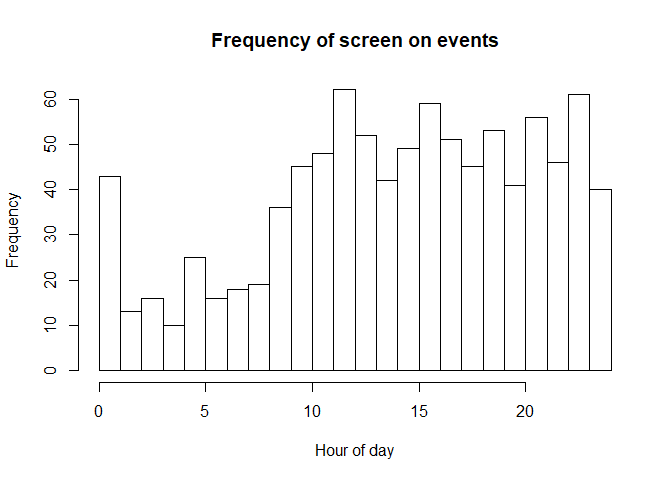
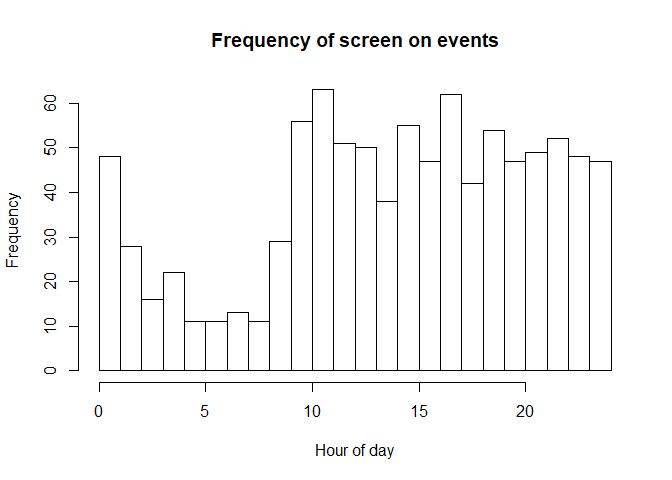
Population average sleep duration prior given weight each day

diff --git a/README.md b/README.md
@@ -139,36 +139,36 @@ head(outmat_orig)
 ```
 
     ##                    t0                  t1
-    ## 1 03/02/2019 15:00:00 03/02/2019 15:03:47
-    ## 2 03/02/2019 15:03:47 03/02/2019 15:04:48
-    ## 3 03/02/2019 15:04:48 03/02/2019 15:10:58
-    ## 4 03/02/2019 15:10:58 03/02/2019 15:26:40
-    ## 5 03/02/2019 15:26:40 03/02/2019 15:27:35
-    ## 6 03/02/2019 15:27:35 03/02/2019 15:29:45
+    ## 1 03/02/2019 15:00:00 03/02/2019 15:19:11
+    ## 2 03/02/2019 15:19:11 03/02/2019 15:38:34
+    ## 3 03/02/2019 15:38:34 03/02/2019 15:42:20
+    ## 4 03/02/2019 15:42:20 03/02/2019 15:46:14
+    ## 5 03/02/2019 15:46:14 03/02/2019 15:51:19
+    ## 6 03/02/2019 15:51:19 03/02/2019 16:10:36
 
 ``` r
 head(outmat_mod)
 ```
 
     ##          [,1]     [,2] [,3]
-    ## [1,] 15.00000 15.06331    1
-    ## [2,] 15.06331 15.08023    1
-    ## [3,] 15.08023 15.18303    1
-    ## [4,] 15.18303 15.44452    1
-    ## [5,] 15.44452 15.45982    1
-    ## [6,] 15.45982 15.49599    1
+    ## [1,] 15.00000 15.31988    1
+    ## [2,] 15.31988 15.64286    1
+    ## [3,] 15.64286 15.70571    1
+    ## [4,] 15.70571 15.77066    1
+    ## [5,] 15.77066 15.85537    1
+    ## [6,] 15.85537 16.17685    1
 
 ``` r
 head(compare_to_outmat_mod)
 ```
 
     ##          [,1]     [,2] [,3]
-    ## [1,] 15.00000 15.06306    1
-    ## [2,] 15.06306 15.08000    1
-    ## [3,] 15.08000 15.18278    1
-    ## [4,] 15.18278 15.44444    1
-    ## [5,] 15.44444 15.45972    1
-    ## [6,] 15.45972 15.49583    1
+    ## [1,] 15.00000 15.31972    1
+    ## [2,] 15.31972 15.64278    1
+    ## [3,] 15.64278 15.70556    1
+    ## [4,] 15.70556 15.77056    1
+    ## [5,] 15.77056 15.85528    1
+    ## [6,] 15.85528 16.17667    1
 
 To see what the resulting data looks
 like:
@@ -220,8 +220,8 @@ sourceCpp("C:/Users/Ian/Dropbox/SleepScreenOnOff/SleepEstimation/LSE_fast.cpp")
 # 440 at 20 y.o., 375 at 80 y.o.
 AVG_AGE=20
 POP_AVG_DUR=(-(65/60)*(AVG_AGE-20)+440)/60
-#POP_SD_DUR = 71.59/60
-POP_SD_DUR = 53.2
+POP_SD_DUR = 71.59/60
+#POP_SD_DUR = 53.2/60
 
 hermite <- function (points, z) {
   p1 <- 1/pi^0.4
@@ -469,7 +469,7 @@ GridSearchInitPars = function(mat_mod,anchor_t,labels,ls_ids,mu_s0,mu_w0,lambda_
       mat=mat_mod[ls_ids[[i]],1:2]
       liktot=liktot-log(MargLik(mat,par_v[1],par_v[2],par_v[3],par_v[4],par_v[5],par_v[6],par_v[7],incl_rho))
     }
-    liktot=liktot-log(dnorm(abs(par_v[2]-par_v[1]),mean=POP_AVG_DUR,sd=POP_SD_DUR))
+    liktot=liktot-length(labels)*log(dnorm(abs(par_v[2]-par_v[1]),mean=POP_AVG_DUR,sd=POP_SD_DUR))
     return(liktot)
   }
   minval=Inf
@@ -534,7 +534,7 @@ FindParamMLEs = function(dat,anchor_t,incl_rho=TRUE,maxiter=20,init_par=NULL,tol
         mat=dat[ls_ids[[i]],1:2]
         liktot=liktot-log(MargLik(mat,par_v[1],par_v[2],cur_par[3],cur_par[4],cur_par[5],par_v[3],par_v[4],incl_rho))
       }
-      liktot=liktot-log(dnorm(abs(par_v[2]-par_v[1]),mean=POP_AVG_DUR,sd=POP_SD_DUR))
+      liktot=liktot-length(labels)*log(dnorm(abs(par_v[2]-par_v[1]),mean=POP_AVG_DUR,sd=POP_SD_DUR))
       return(liktot)
     }
     optim.out1=optim(par=cur_par[c(1,2,6,7)],g1,control=list(maxit=1000))
@@ -546,7 +546,7 @@ FindParamMLEs = function(dat,anchor_t,incl_rho=TRUE,maxiter=20,init_par=NULL,tol
           mat=dat[ls_ids[[i]],1:2]
           liktot=liktot-log(MargLik(mat,cur_par[1],cur_par[2],par_v[1],par_v[2],cur_par[5],cur_par[6],cur_par[7],incl_rho))
         }
-        liktot=liktot-log(dnorm(abs(cur_par[2]-cur_par[1]),mean=POP_AVG_DUR,sd=POP_SD_DUR))
+        liktot=liktot-length(labels)*log(dnorm(abs(cur_par[2]-cur_par[1]),mean=POP_AVG_DUR,sd=POP_SD_DUR))
         return(liktot)
       }
       optim.out2=optim(par=cur_par[c(3,4)],g2,control=list(maxit=1000))
@@ -563,7 +563,7 @@ FindParamMLEs = function(dat,anchor_t,incl_rho=TRUE,maxiter=20,init_par=NULL,tol
           mat=dat[ls_ids[[i]],1:2]
           liktot=liktot-log(MargLik(mat,cur_par[1],cur_par[2],par_v[1],par_v[2],0,cur_par[6],cur_par[7],incl_rho))
         }
-        liktot=liktot-log(dnorm(abs(cur_par[2]-cur_par[1]),mean=POP_AVG_DUR,sd=POP_SD_DUR))
+        liktot=liktot-length(labels)*log(dnorm(abs(cur_par[2]-cur_par[1]),mean=POP_AVG_DUR,sd=POP_SD_DUR))
         return(liktot)
       }
       optim.out2=optim(par=cur_par[c(3,4)],g2,control=list(maxit=1000))
@@ -584,8 +584,9 @@ mle.out=FindParamMLEs(outmat_mod,anchor_t)
 
     ## Identifying good initial model parameters...
     ## Numerical optimization (using optim) until convergence (maxiter= 20 ):
-    ## Iter  1 : mu_s = 25.06653 ; mu_w = 32.78289 ; sd_s = 1.115679 ; sd_w = 0.9906585 ; rho = 0 ; lambda_s = 1.819188 ; lambda_w = 5.012012 
-    ## Iter  2 : mu_s = 25.06653 ; mu_w = 32.7829 ; sd_s = 1.115679 ; sd_w = 0.9906585 ; rho = 0 ; lambda_s = 1.819199 ; lambda_w = 5.012014
+    ## Iter  1 : mu_s = 25.61265 ; mu_w = 32.80326 ; sd_s = 1.101514 ; sd_w = 1.015234 ; rho = 0.01133644 ; lambda_s = 1.764966 ; lambda_w = 4.976604 
+    ## Iter  2 : mu_s = 25.59182 ; mu_w = 32.80326 ; sd_s = 1.089453 ; sd_w = 1.01939 ; rho = 0.01133644 ; lambda_s = 1.619661 ; lambda_w = 5.075202 
+    ## Iter  3 : mu_s = 25.59182 ; mu_w = 32.80326 ; sd_s = 1.089453 ; sd_w = 1.01939 ; rho = 0.01133644 ; lambda_s = 1.61966 ; lambda_w = 5.075208
 
 The maximum likelihood estimates and the interpretations of the model
 parameters are:
@@ -612,11 +613,11 @@ cat(paste(" Avg. time to sleep = ",sleep_t," (+/- ",round(mle.out[3],1)," hour)\
 ,(paste("Rate (per hour) of frequency of phone use while awake = ", round(mle.out[7],5),"\n",sep="")))
 ```
 
-    ##  Avg. time to sleep = 1:03 (+/- 1.1 hour)
-    ##  Avg. time to wake  = 8:46 (+/- 1 hour)
-    ##  Correlation between time to sleep and time to wake = 0
-    ##  Rate (per hour) of frequency of phone use while asleep = 1.8192
-    ##  Rate (per hour) of frequency of phone use while awake = 5.01201
+    ##  Avg. time to sleep = 1:35 (+/- 1.1 hour)
+    ##  Avg. time to wake  = 8:48 (+/- 1 hour)
+    ##  Correlation between time to sleep and time to wake = 0.01
+    ##  Rate (per hour) of frequency of phone use while asleep = 1.61966
+    ##  Rate (per hour) of frequency of phone use while awake = 5.07521
 
 ### Estimating bed times and wake up times for each day
 
@@ -653,13 +654,13 @@ xest_orig
 ```
 
     ##                bedtime        wake-up time
-    ## 1  03/03/2019 00:20:59 03/03/2019 08:47:22
-    ## 2  03/04/2019 00:26:16 03/04/2019 10:11:54
-    ## 3  03/05/2019 01:06:20 03/05/2019 08:40:55
-    ## 4  03/06/2019 00:54:38 03/06/2019 08:51:40
-    ## 5  03/06/2019 23:38:11 03/07/2019 08:40:41
-    ## 6  03/08/2019 01:55:34 03/08/2019 08:35:25
-    ## 7  03/09/2019 00:59:20 03/09/2019 09:00:21
-    ## 8  03/10/2019 00:41:54 03/10/2019 08:52:18
-    ## 9  03/11/2019 00:15:33 03/11/2019 10:32:16
-    ## 10 03/12/2019 01:02:07 03/12/2019 08:23:30
+    ## 1  03/03/2019 01:30:35 03/03/2019 08:48:17
+    ## 2  03/04/2019 01:12:59 03/04/2019 08:17:14
+    ## 3  03/05/2019 01:33:44 03/05/2019 08:51:07
+    ## 4  03/06/2019 01:30:04 03/06/2019 08:52:48
+    ## 5  03/07/2019 01:00:40 03/07/2019 08:48:11
+    ## 6  03/08/2019 01:02:45 03/08/2019 09:49:01
+    ## 7  03/09/2019 00:23:52 03/09/2019 08:49:36
+    ## 8  03/10/2019 01:46:52 03/10/2019 08:19:56
+    ## 9  03/11/2019 01:36:45 03/11/2019 09:01:12
+    ## 10 03/12/2019 01:26:13 03/12/2019 09:49:26
